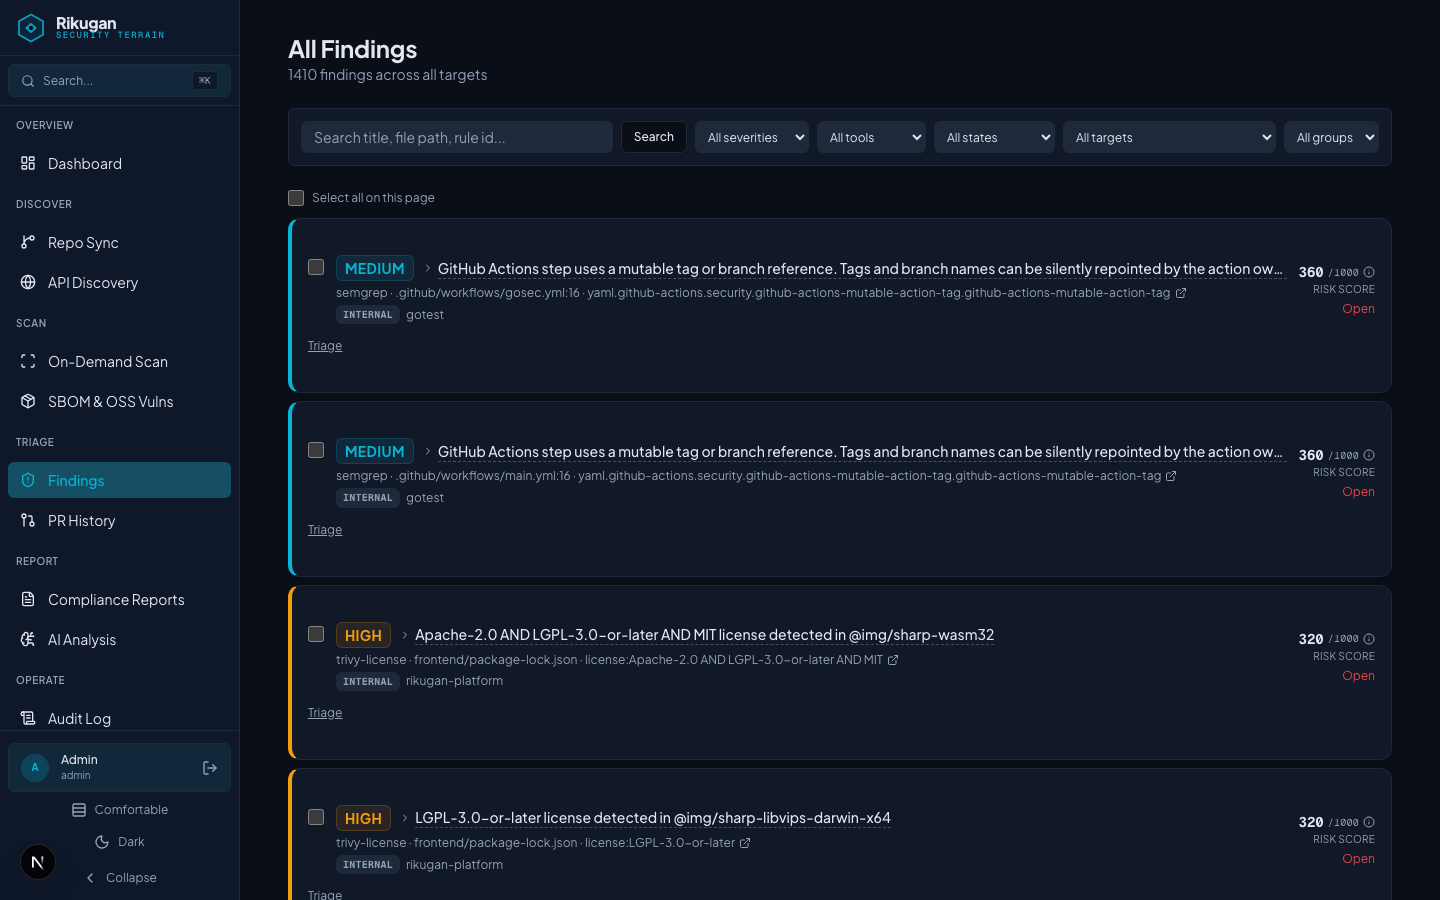
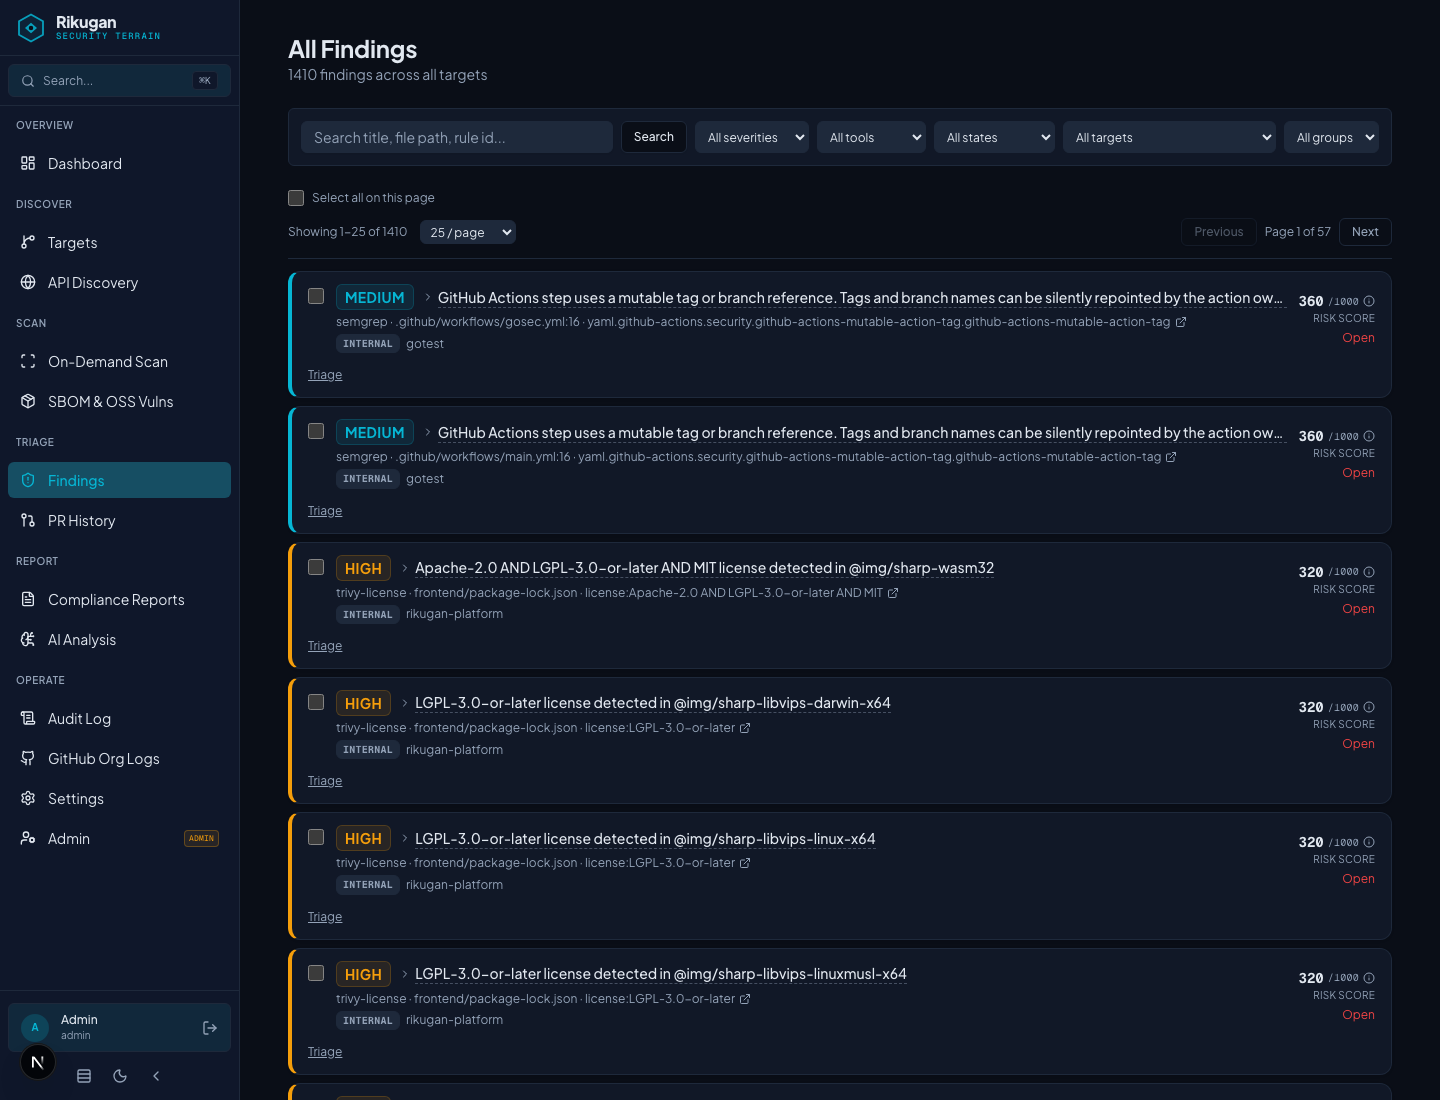
Docs: refresh all screenshots, document AI scanning, AIBOM and onboarding
All 20 screenshots recaptured against the current UI. They were showing the
previous Repo Sync naming, the old target cards, no pagination and the old
stacked sidebar footer.

New pages:

- scanning/ai-security.md -- AI/ML repository scanning: why the category
  exists, how repos are detected (and why detection rather than a manual
  toggle), ModelScan, and the LLM ruleset. Records that AI provider API keys
  are already covered by the Gitleaks scanner, so nobody configures a second
  secrets scanner for them.
- scanning/aibom.md -- the AI Bill of Materials, including the part that
  matters most: unknown provenance is stated as unknown rather than omitted,
  because an absent modelCard reads as "not applicable" while an explicit
  unknown reads as "we looked and could not tell", and only the second is
  true. A target with no AIBOM shows "not generated yet", never an empty list.

Updated:

- Repo Sync renamed to Targets throughout, including the connecting-github
  walkthrough.
- Targets page documents the new row layout (findings count leading, C/H
  breakdown, "not scanned" rather than a zero for unscanned repos), the sort
  options and their default, and the three detail sub-pages with their
  linkable ?tab= URLs.
- Quickstart documents the first-run questionnaire, leading with the two
  guarantees an operator needs: every question is optional, and nothing is
  switched off silently.
- Scanners table gains Checkov/tfsec, ModelScan and semgrep-llm.
[…]

diff --git a/sidebars.ts b/sidebars.ts
@@ -28,6 +28,8 @@ const sidebars: SidebarsConfig = {
         'scanning/scanners',
         'scanning/api-discovery-and-scanning',
         'scanning/sbom',
+        'scanning/ai-security',
+        'scanning/aibom',
       ],
     },
     {

diff --git a/docs/scanning/ai-security.md b/docs/scanning/ai-security.md
@@ -1,0 +1,59 @@
+---
+sidebar_position: 4
+---
+
+# AI/ML repository security
+
+Conventional SAST and SCA are blind to the parts of an AI repository where risk actually concentrates. Rikugan adds four things for repos that build AI products or carry AI features.
+
+## Why a separate category
+
+- **Serialized model files.** `pickle.load()` executes code. A hostile `.pkl` or `.pt` is remote code execution at load time, with no exploit chain and no user interaction — the weights file *is* the payload. Ordinary SAST never opens binary artifacts.
+- **Model and dataset lineage.** A package SBOM tells you `transformers==4.44.0`. It tells you nothing about which model is pulled at runtime, from where, or at what revision.
+- **LLM-specific code patterns.** Model output reaching `eval`, a shell, or SQL is classic injection where the untrusted source happens to be a model.
+
+## Which repos are scanned
+
+AI-specific scanners only run on repositories detected as AI/ML. Detection is automatic, from two independent signals:
+
+1. **Model artifacts** in the checkout — `.pkl`, `.pt`, `.safetensors`, `.h5`, `.onnx`, `.gguf` and similar.
+2. **AI/ML dependencies** in the target's existing SBOM inventory — `torch`, `transformers`, `openai`, `anthropic`, `@langchain/*`, vector-store clients and so on, across npm, PyPI and Go.
+
+An explicit per-target toggle was considered and rejected: someone has to remember to set it, and an unflagged AI repo then silently gets zero AI coverage. Detection re-runs on every scan, so a repository becomes an AI repo the day someone adds `openai` to `package.json`.
+
+Detection records **why** it fired, visible in the tooltip on the AI/ML badge — a bare flag is not contestable. A manual override is available in both directions and wins over detection, while detection keeps updating underneath it, so "auto-detected" and "manually set" stay distinguishable.
+
+![Targets list showing the AI/ML badge](/img/screenshots/targets-list.png)
+
+## Model-file scanning (ModelScan)
+
+Scans serialized models for unsafe deserialization operators.
+
+```bash
+POST /api/scans/run?target_id=1&tool=modelscan
+```
+
+Findings arrive as **Critical**, which means the existing PR Guardrail blocks them with no extra configuration — `should_block()` decides on severity alone. That severity is floored independently of what ModelScan itself reports: there is no such thing as a low-severity arbitrary-code primitive in a checked-in weights file.
+
+The finding points at the file, not a line number. A fabricated line offset into a binary would send a reader nowhere useful.
+
+## LLM code rules (semgrep-llm)
+
+A curated OWASP LLM Top 10 ruleset shipped inside Rikugan rather than pulled from a hosted registry, so results are reproducible and work offline.
+
+Covers:
+
+- LLM output flowing into `eval`/`exec`, a shell, or SQL
+- `torch.load()` without `weights_only=True`
+- `pickle`/`joblib`/`dill` loads of model artifacts
+- Hugging Face model references with no pinned `revision`
+
+Rules use real dataflow (taint) rather than pattern-matching the sink alone, and are deliberately kept small and high-precision. A rule that fires on every subprocess call in a file that happens to import an LLM SDK is worse than no rule.
+
+:::note AI provider secrets are already covered
+API keys for OpenAI, Anthropic, Hugging Face, Cohere and Perplexity are detected by the **Gitleaks** scanner that already runs on every repository. No AI-specific configuration is needed for secrets.
+:::
+
+## AI Bill of Materials
+
+See [AIBOM](./aibom.md).

diff --git a/docs/github-integration/targets-and-groups.md b/docs/github-integration/targets-and-groups.md
@@ -20,13 +20,29 @@ POST /api/targets
 }
 ```
 
-Or use the **Repo Sync** page in the UI, which drives the same endpoint. `criticality_weight` feeds priority scoring (see [Findings Lifecycle & Scoring](../findings/lifecycle-and-scoring.md)).
+Or use the **Targets** page in the UI, which drives the same endpoint. `criticality_weight` feeds priority scoring (see [Findings Lifecycle & Scoring](../findings/lifecycle-and-scoring.md)) and is shown per row as *Risk N/5*.
 
-![Repo Sync: target list](/img/screenshots/targets-list.png)
+![Targets: repository inventory](/img/screenshots/targets-list.png)
 
-`PATCH /api/targets/{id}` updates a target — including `api_base_url`, which is the *only* source of a host for [Active API Scanning](../scanning/api-discovery-and-scanning.md); a nuclei scan can never be pointed at an arbitrary third-party URL. All of this lives on a target's detail page:
+Each row leads with the number that matters: open findings on the default branch, with critical (`C`) and high (`H`) counts beside it. A repository that has never been scanned shows **not scanned** rather than a zero — nobody looked, which is not the same as clean.
+
+The list sorts by **most findings** by default, since that is the question the page exists to answer. Other orders are most-severe, least-recently-scanned (never-scanned first) and name. Rows per page is adjustable (25/50/100).
+
+`PATCH /api/targets/{id}` updates a target — including `api_base_url`, which is the *only* source of a host for [Active API Scanning](../scanning/api-discovery-and-scanning.md); a nuclei scan can never be pointed at an arbitrary third-party URL.
+
+## The target detail page
+
+A target has three sub-pages, each with its own URL so it can be linked from a finding, a PR comment or a Slack alert:
+
+| Tab | Contents |
+|---|---|
+| **Overview** | Open findings by severity, last scan and which tools ran, default branch, risk weight, AI/ML detection status |
+| **Vulnerabilities** | This target's findings, with the same triage, filtering and bulk actions as the main Findings page |
+| **Settings** | Groups, PR Guardrail enforcement, Active API Scanning, CI pipeline integration |
 
 ![Target detail page](/img/screenshots/target-detail.png)
+
+Link directly to a tab with `?tab=overview`, `?tab=vulnerabilities` or `?tab=settings`.
 
 ## Groups & tags
 

diff --git a/docs/scanning/aibom.md b/docs/scanning/aibom.md
@@ -1,0 +1,38 @@
+---
+sidebar_position: 5
+---
+
+# AIBOM (AI Bill of Materials)
+
+An ordinary SBOM inventories **packages**. An AIBOM inventories the parts a package SBOM is blind to: **models, datasets, and their lineage**.
+
+Rikugan emits **CycloneDX 1.6**, which added first-class machine-learning component types. That format was chosen over SPDX 3.0's AI profile for a practical reason: Rikugan already produces CycloneDX for its SBOM, so the AIBOM extends an existing pipeline rather than introducing a second format.
+
+## How it is generated
+
+Extraction runs during the existing SBOM generation for a target — the checkout is already there, so an AIBOM costs no extra clone and no extra tooling. Generate an SBOM for a target and its AIBOM is populated alongside it.
+
+Detected references include Hugging Face models (`from_pretrained`, `hf_hub_download`), hosted API models (`model="gpt-5"`), and datasets (`load_dataset`).
+
+## Viewing and exporting
+
+**SBOM & OSS Vulns** → select a target → **AI Bill of Materials** tab. Export produces a CycloneDX 1.6 document validated against the published schema.
+
+![SBOM page](/img/screenshots/sbom.png)
+
+## Unknown provenance is stated, never assumed
+
+This is the most important thing to understand about the output.
+
+Model and dataset lineage frequently **cannot** be determined from source. A repository calling `openai.chat.completions.create(model="gpt-5")` has a real model dependency with no accessible training-data provenance and no version to pin.
+
+Rikugan records those facts as an explicit `unknown` rather than omitting them:
+
+- An absent `modelCard` reads as *"not applicable"*.
+- An explicit `unknown` reads as *"we looked and could not tell"*.
+
+Those are materially different claims, and only the second is true. A compliance artifact that silently implies full provenance is a liability rather than a feature.
+
+The same distinction applies to the view itself: a target whose AIBOM has never been generated shows *"No AIBOM generated yet"*, not an empty list. A repository nobody has analysed is unknown, not clean.
+
+Components with no pinned revision are flagged `unpinned` — the referenced weights can change after you review them, which is the model-supply-chain equivalent of an unpinned dependency.

diff --git a/docs/getting-started/quickstart.md b/docs/getting-started/quickstart.md
@@ -106,6 +106,19 @@ Open http://localhost:3000 — redirects to `/login`.
 
 ![Login screen](/img/screenshots/login.png)
 
+## First-run setup
+
+The first time an admin signs in to a new deployment, Rikugan asks a few questions about your stack — languages, whether you manage infrastructure as code, whether you build AI/ML features, your pull-request policy.
+
+Rikugan ships with **every scanner enabled**. The answers let it switch off the ones that cannot apply to you, so your findings are signal rather than noise — gosec has nothing to say about a repository with no Go.
+
+Two things worth knowing:
+
+- **Every question is optional**, and skipping keeps all scanners on.
+- **Nothing is switched off silently.** Before saving, you see exactly which scanners the answers turn off and why, and each stays listed in **Admin → Tool Marketplace** where it can be turned back on in one click.
+
+An unanswered question always leaves a scanner enabled: *not stated* is not *no*, and the safe default for a security scanner is to run.
+
 ## First steps after signing in
 
 1. Bootstrap or confirm your workspace (Settings → Workspaces).

diff --git a/docs/scanning/scanners.md b/docs/scanning/scanners.md
@@ -13,6 +13,11 @@ Rikugan runs scanners **natively** as subprocesses (not by re-parsing another to
 | **Gitleaks** | Secrets | Committed credentials/API keys |
 | **gosec** | SAST (Go) | Go-specific security issues, auto-detected from `Finding.tool` history or GitHub's `/languages` API |
 | **nuclei** | DAST | Active scanning of already-discovered API endpoints |
+| **Checkov / tfsec** | IaC | Terraform, Kubernetes, CloudFormation misconfiguration |
+| **ModelScan** | AI/ML | Unsafe deserialization in serialized model files |
+| **semgrep-llm** | AI/ML | Rikugan's OWASP LLM Top 10 ruleset, shipped in-repo |
+
+The two AI/ML scanners only run against repositories detected as AI/ML — see [AI/ML repository security](./ai-security.md).
 
 ## Triggering a scan
 

diff --git a/docs/findings/lifecycle-and-scoring.md b/docs/findings/lifecycle-and-scoring.md
@@ -30,3 +30,7 @@ then boosts the score using real-time lookups:
 - **CISA KEV** (Known Exploited Vulnerabilities) — `core/kev.py`, cached 1 hour
 
 `criticality_weight` comes from the target's own configured criticality (set when adding/editing a target).
+
+## Working through a long list
+
+Every list surface in Rikugan is paginated, with a control at the top of the list as well as the bottom so the size of the result set is visible before you scroll. Rows per page is adjustable — **25, 50 or 100** — and the choice is carried in the URL, so a link to a filtered, sorted, paged view reproduces exactly what you were looking at.

diff --git a/docs/github-integration/connecting-github.md b/docs/github-integration/connecting-github.md
@@ -6,9 +6,9 @@ sidebar_position: 1
 
 Rikugan connects to GitHub via a **GitHub App** (not a PAT) for org-wide activity, PR Guardrail commit statuses, and pipeline-integration PRs.
 
-Once connected, the **Repo Sync** page shows the live connection status at the top:
+Once connected, the **Targets** page shows the live connection status at the top:
 
-![Repo Sync: GitHub App connected, repos synced](/img/screenshots/targets-list.png)
+![Targets: GitHub App connected, repos synced](/img/screenshots/targets-list.png)
 
 ## Create the App (manifest flow)
 
